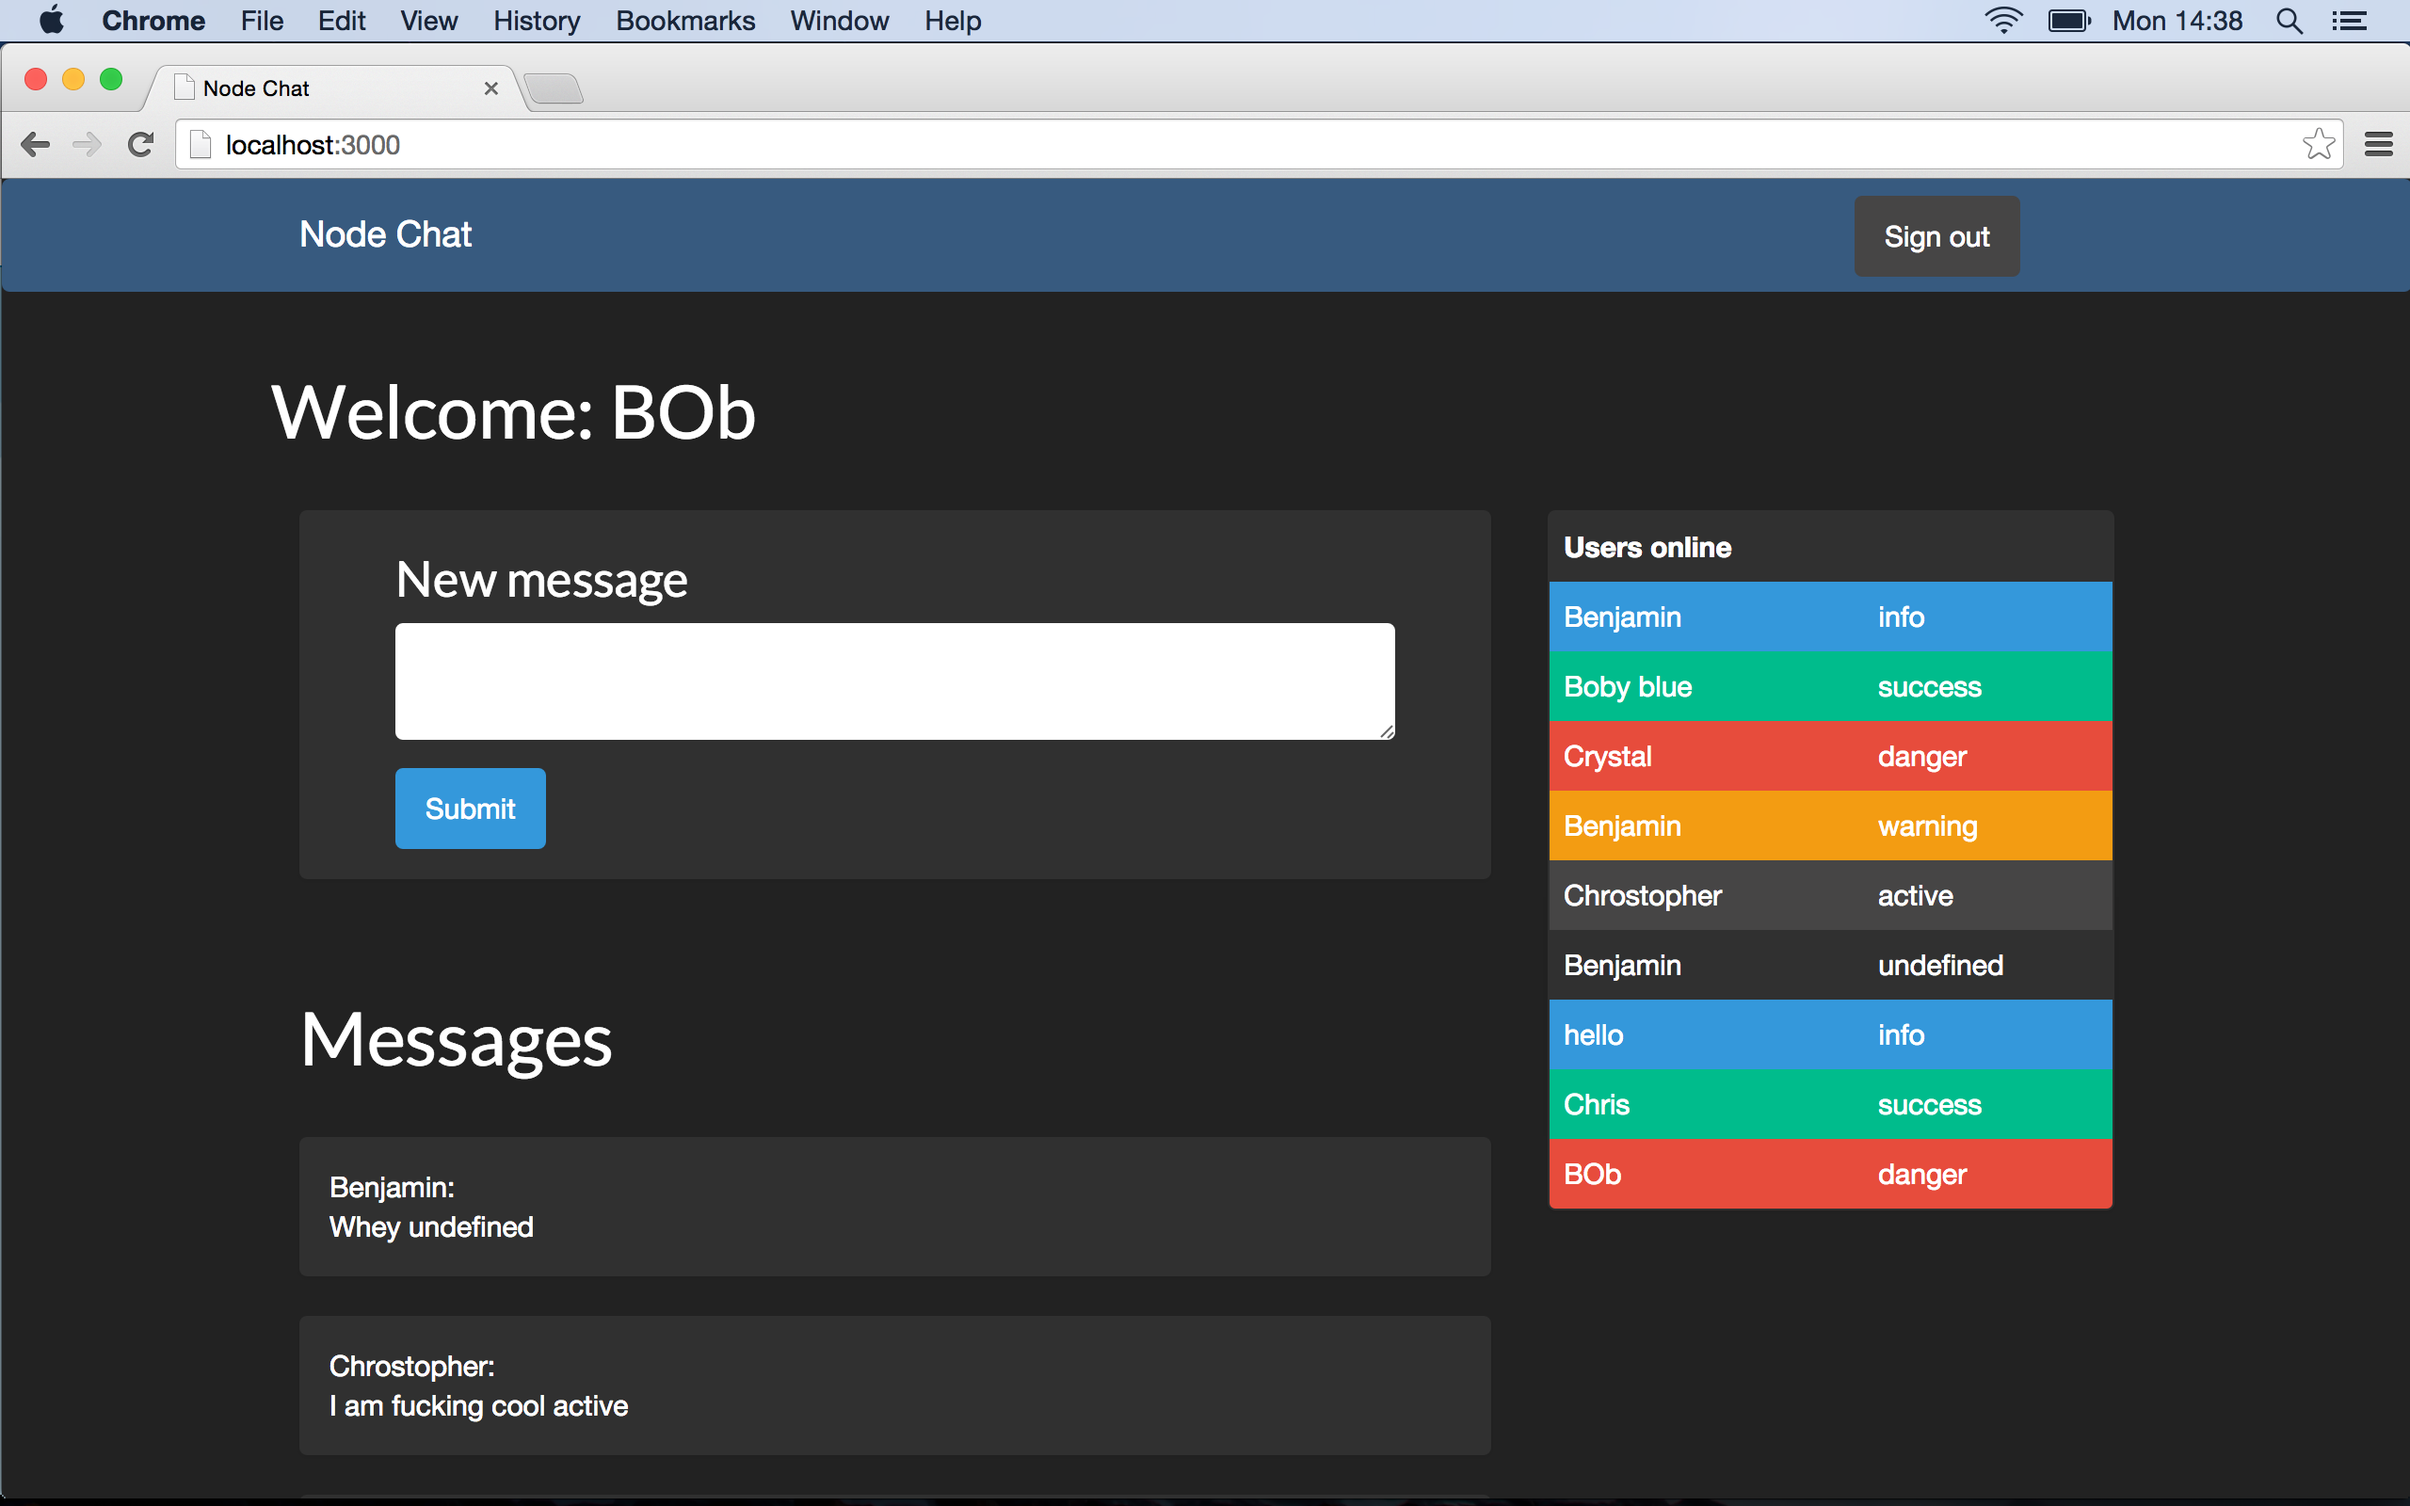
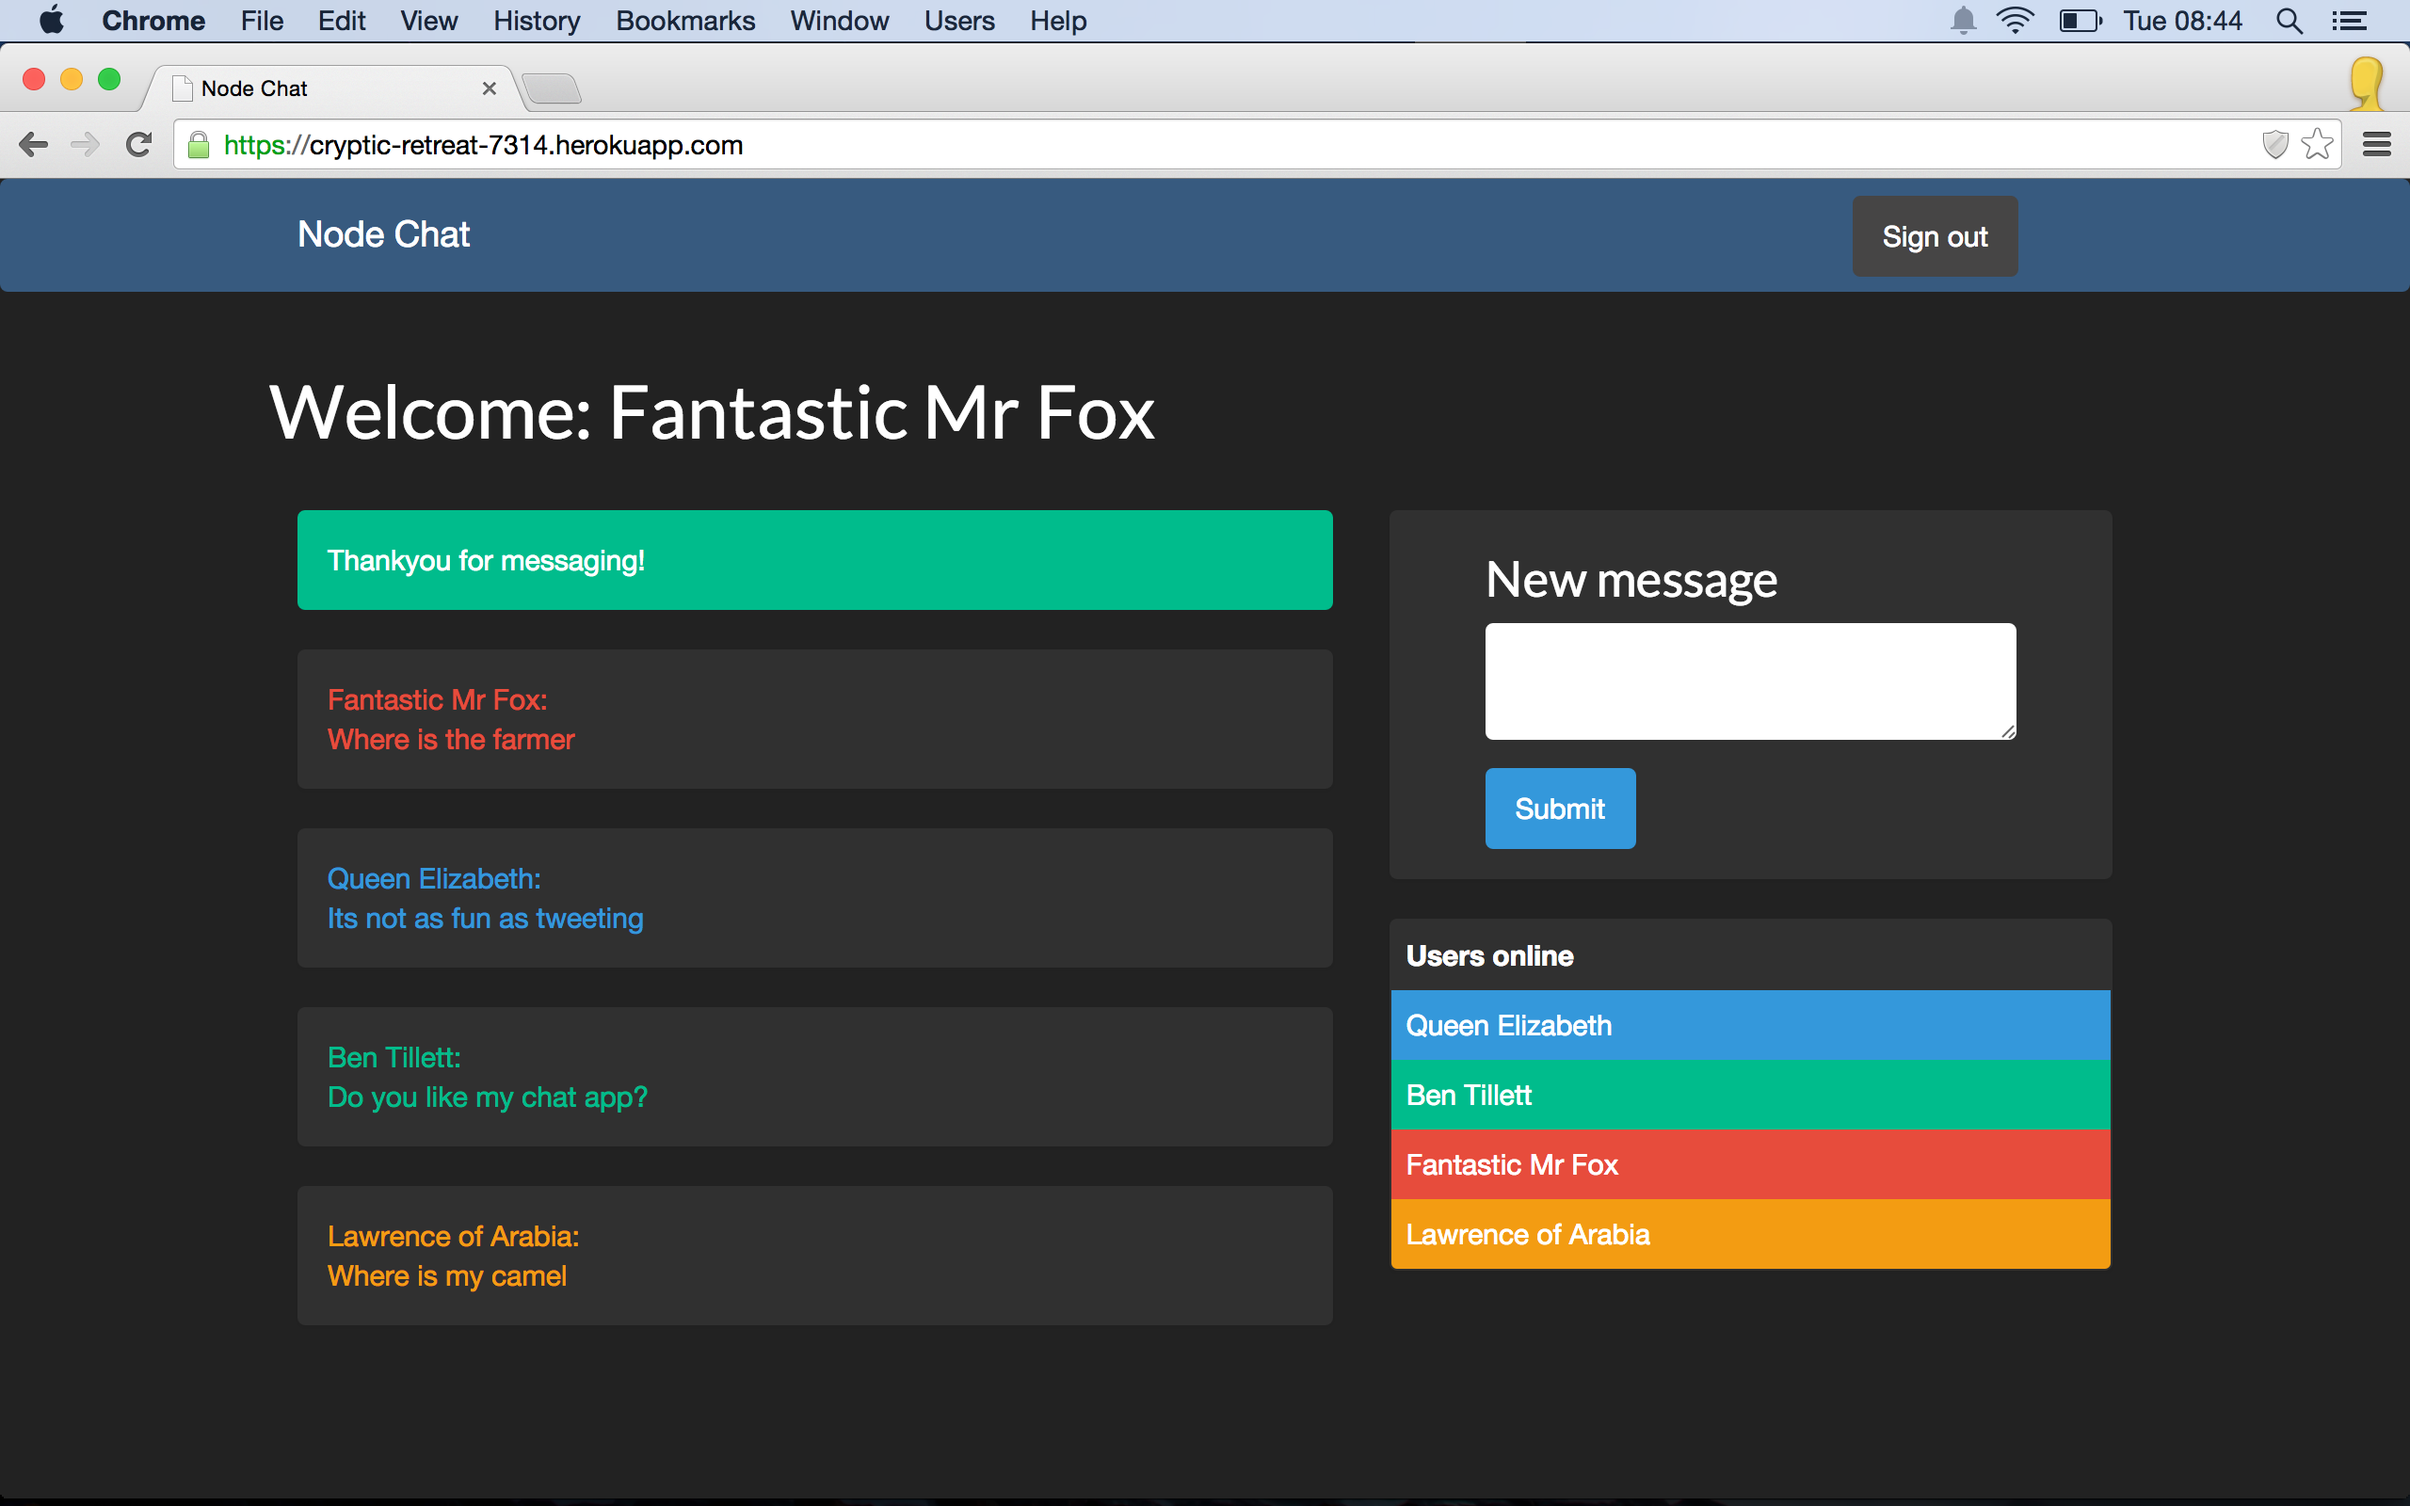
update readme

diff --git a/README.md b/README.md
@@ -3,7 +3,8 @@ Node chat
 
 In progress!!!
 
-A chat application written in node using web sockets mongodb and angular.js.
+A chat application written with node.js express, mongodb and mongoose. 
+Tested with mocha and Zombie
 
 Skills learnt/used
 -----------------
@@ -11,10 +12,23 @@ Skills learnt/used
 > * Nosql - with MongoDb
 > * Node.js
 > * Express
-> * Mocha
-> * socket.io
+
 
 ![Screenshot of welcome page](screenshot.png)
+
+[click here](https://cryptic-retreat-7314.herokuapp.com/) to check it out online.
+
+![Screenshot of sign up](signup.png)
+
+Sign up!
+
+![Screenshot of send message](sendingmessage.png)
+
+Send a message...
+
+![Screenshot of sent message](sentmessage.png)
+
+Take a look
 
 
 How to use
@@ -27,7 +41,7 @@ $ git clone git@github.com:benjamintillett/node_chat.git
 ```
 
 
-run rspec to view the tests:
+run mocha to view the tests:
 
 ```shell 
 $ mocha
@@ -38,4 +52,5 @@ Start up the server
 ```shell 
 $ npm start
 ```
+
 Point your browser to localhost:3000
